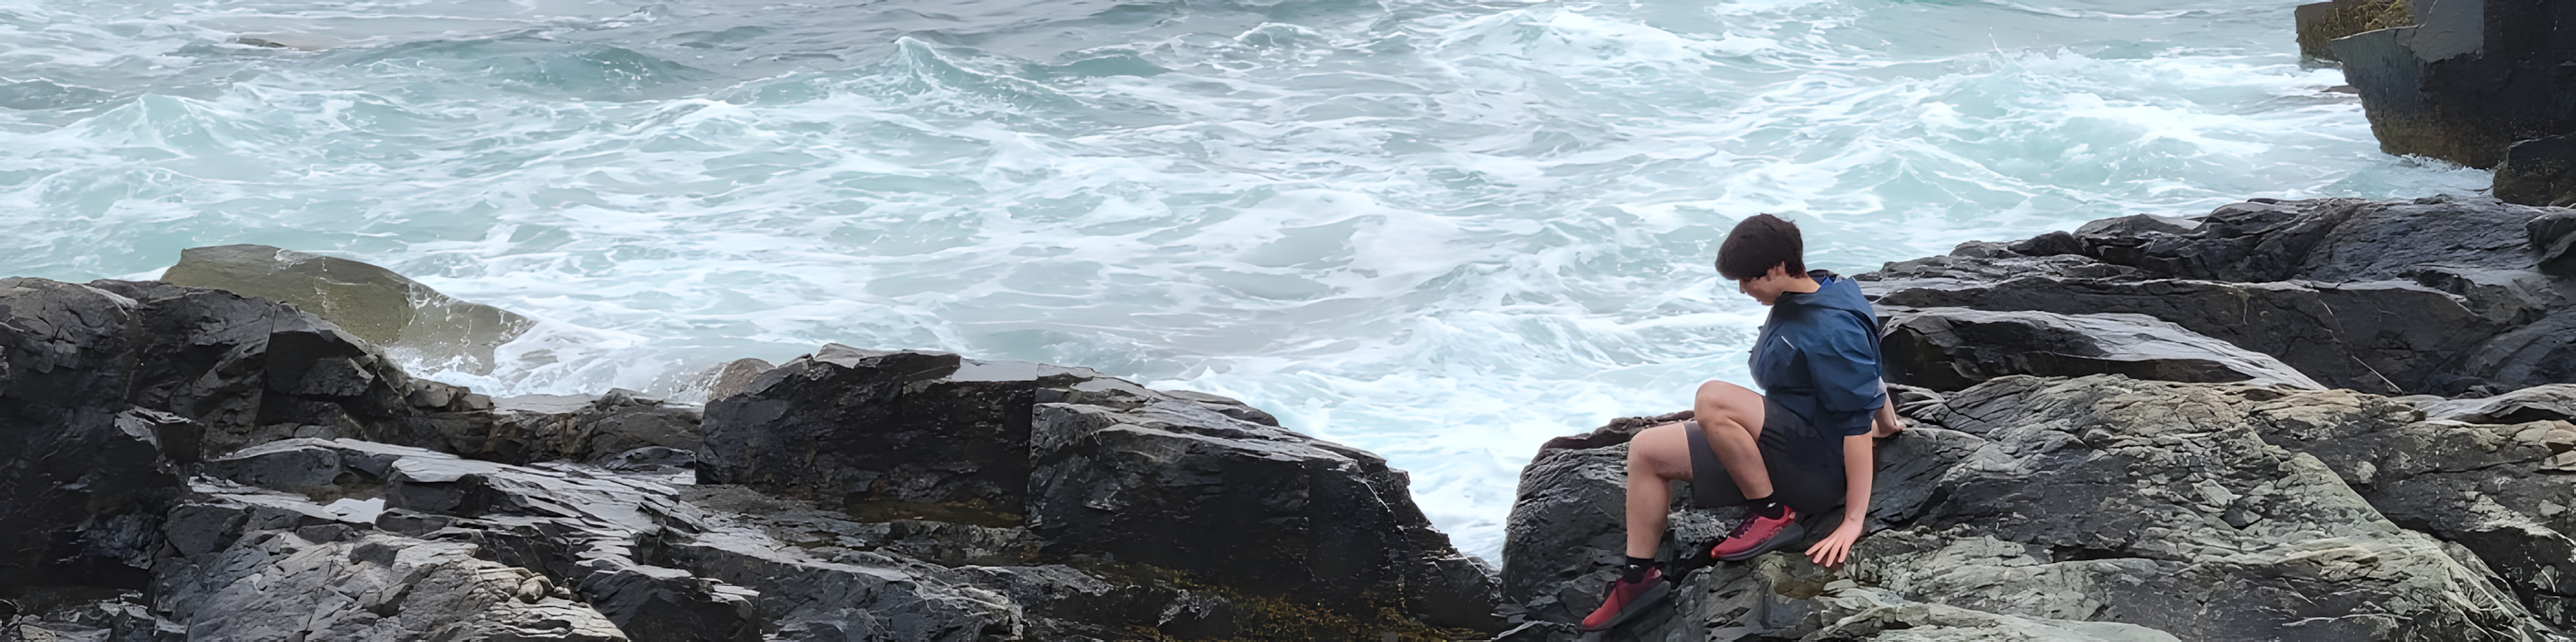
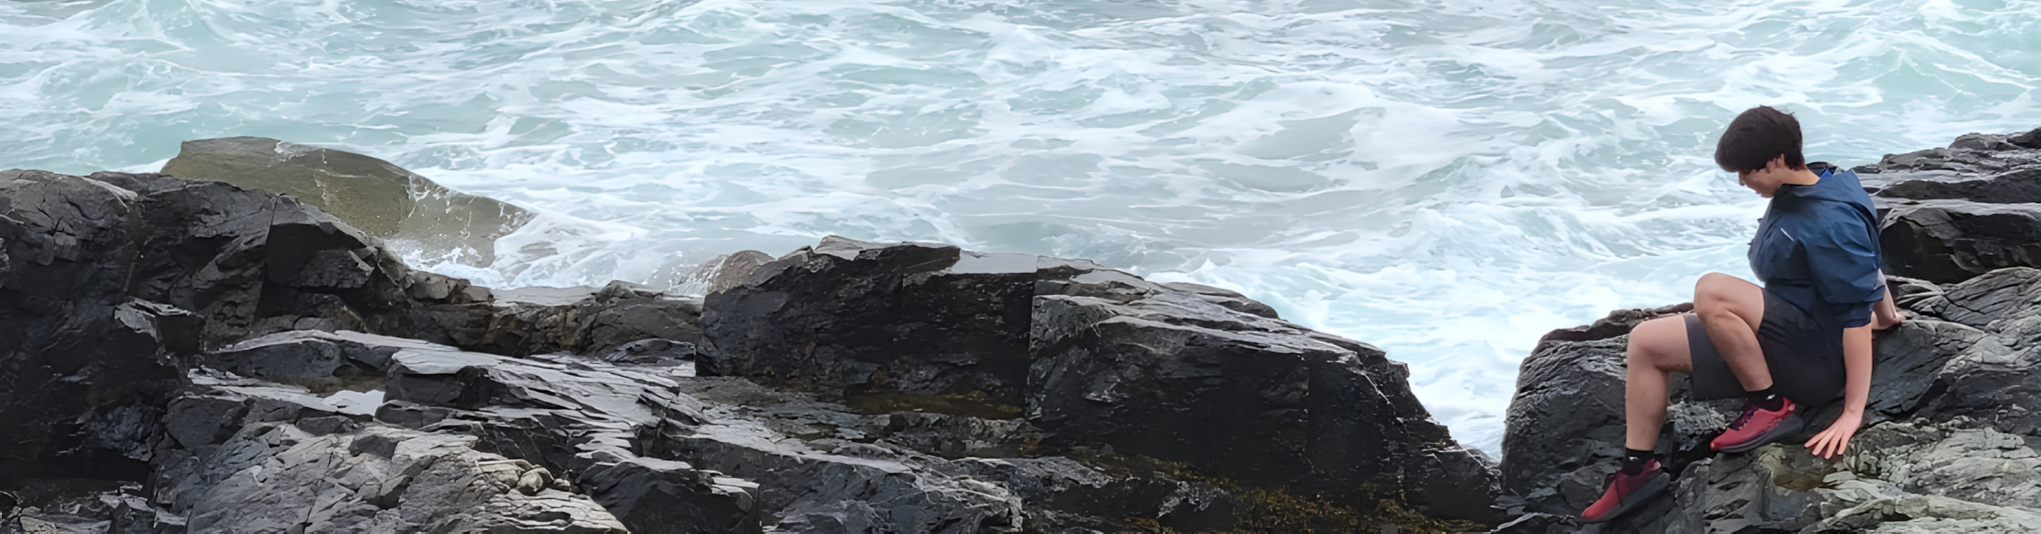
added initial modal for project cards, and cleaned up media folder

diff --git a/scripts.js b/scripts.js
@@ -1,5 +1,5 @@
 // Function to generate a project card with skills as bolded text in a paragraph
-function createProjectCard(title, description, imageUrl, projectLink, skills, projectId, videoUrl) {
+function createProjectCard(title, description, modal_description, imageUrl, projectLink, skills, projectId, videoUrl) {
     // Create the project card container
     const projectCard = document.createElement('a');
     projectCard.href = `#${projectId}`; // Set the link for the project to simulate a subpage
@@ -35,15 +35,39 @@ function createProjectCard(title, description, imageUrl, projectLink, skills, pr
     const projectContainer = document.getElementById('project-container');
     projectContainer.appendChild(projectCard);
 
-    // TODO generate a new webpage for each project card and have them be linked to it
-    // var opened = window.open("projects/uav_ugv_collaboration.html");
-    // opened.document.write("<html><head><title>MyTitle</title></head><body>test</body></html>");
+    // Add click event to open the modal with more details
+    projectCard.addEventListener('click', function(event) {
+        event.preventDefault(); // Prevent default link behavior
 
+        // Fill modal with project details
+        document.getElementById('modal-title').innerText = title;
+        document.getElementById('modal-image').src = imageUrl;
+        document.getElementById('modal-description').innerText = modal_description;
+        document.getElementById('modal-skills').innerText = skills.join(', ');
+        // document.getElementById('modal-link').href = projectLink;
+
+        // Show the modal
+        document.getElementById('project-modal').style.display = 'block';
+    });
 }
+
+// // Close the modal when clicking the close button
+// document.querySelector('.close-btn').addEventListener('click', function() {
+//     document.getElementById('project-modal').style.display = 'none';
+// });
+
+// Close the modal when clicking outside the modal content (on the background)
+document.getElementById('project-modal').addEventListener('click', function(event) {
+    // Check if the click happened on the modal background (not inside the modal content)
+    if (event.target === document.getElementById('project-modal')) {
+        document.getElementById('project-modal').style.display = 'none';
+    }
+});
 
 // Calling the function to add project cards dynamically
 createProjectCard(
     "UAV-UGV Collaboration",
+    "A system that allows a quadcopter to autonomously dock and charge on a UGV reliably; in partnership with Draper Laboratory.",
     "A system that allows a quadcopter to autonomously dock and charge on a UGV reliably; in partnership with Draper Laboratory.",
     "media/projects/UAV_UGV.jpg", 
     "https://github.com/your-github/repo2",
@@ -53,6 +77,8 @@ createProjectCard(
 createProjectCard(
     "3-DOF Robotic Sorting Arm",
     "A 3-DOF robot arm, programmed to pick up and sort colored balls that were placed into its workspace.",
+    `This project was for the class RBE 3001: Unified Robotics III. 
+    The goal of the project was to develop the three degree of freedom robot arm to pick up and sort the balls that were placed on the workspace. To do this, our team had to utilize forward and inverse kinematics, smooth trajectory generation, and computer vision.`,
     "media/projects/color_sorting_robotic_arm.gif", 
     "https://github.com/your-github/repo1",
     ["MATLAB", "Forward/Inverse Kinematics", "Trajectory Generation", "Stereo Calibration"]
@@ -61,6 +87,25 @@ createProjectCard(
 createProjectCard(
     "Escape Room Robots",
     "A set of 3 robots with unique sets of sensors that communicate with each other and find clues to exit an escape room.",
+    `This project was for RBE 2002: Unified Robotics II.
+
+The goal of this project was to develop three robots to communicate with each other and utilize different sensors to navigate an escape room, and have one of the robots escape through a trap door. 
+
+Robot 1 (Camera Bot) moves down the column of the field, wall following, until it reaches the last row, where it turns left to move up the ramp. Using a complementary filter with the robot's IMU, the bot detects when the robot moves far enough on the ramp when the ramp levels out. It then waits for Robot 2 to hit the button and reveal the apriltag at the top of the ramp. Robot 1 then scans the apriltag and sends the ID and orientation of the apriltag to MQTT, where Robot 3 can retrieve the information.
+
+Robot 2 (Button Bot) moves down the first row and follows the left wall until it detects an IR Signal that is on the button using the IR sensor mounted to the front of the robot. Once it sees the IR Signal, the robot aligns itself with the signal--and therefore the button, and presses the button, using the complementary filter with the IMU to detect when the robot has collided with the button. The triggered button then reveals the apriltag for Robot 1.
+
+ Robot 2 also keeps track of which cell the button is in and which face of the cell the button is on and sends that information over MQTT because Robot 3 needs it to unlock the escape door.
+
+Robot 3 (Escape Bot) starts when it retrieves the ID and orientation of the apriltag and the location of the button from MQTT.
+
+The ID of the apriltag determines which cell the escape door is in. For example an ID of 42 would be row 4 column 2.
+
+The orientation of the apriltag determines which face of the cell the escape door is on. For example if the apriltag is not rotated the escape door would be on the north side, and if the apriltag was rotated 90 degrees, the escape door would be on the east side.
+
+The XY location and cell face of the button determines the 3-digit passcode that needs to be sent to the door to open it. The door has an IR receiver and the robot has a circuit we designed with an IR emitter to send the correct passcode using the IR NEC Protocol.
+
+Once the door is detected to have opened using an ultrasonic sensor mounted to the front of the robot, it drives through.`,
     "media/projects/escape_room_robots.gif", 
     "https://github.com/your-github/repo2",
     ["C++", "Sensor Integration", "IMU", "PID Control", "MQTT", "OpenMV"]
@@ -68,6 +113,7 @@ createProjectCard(
 
 createProjectCard(
     "Solar Panel Pick and Place Robot",
+    "Designed and 3D printed a four-bar mechanism on a robot that would pick up \"solar panels\" and place them on the tops of miniature roofs",
     "Designed and 3D printed a four-bar mechanism on a robot that would pick up \"solar panels\" and place them on the tops of miniature roofs",
     "media/projects/solar_panel_robot.gif", 
     "https://github.com/your-github/repo2",
@@ -77,6 +123,7 @@ createProjectCard(
 createProjectCard(
     "Hospital Kiosk Application",
     "Led a team of 11 students to design a kiosk application for workers at Brigham and Women\’s Hospital in Boston",
+    "Led a team of 11 students to design a kiosk application for workers at Brigham and Women\’s Hospital in Boston",
     "media/projects/brigham_and_womens_hospital.jpeg",
     "https://github.com/your-github/repo2",
     ["Java", "Agile", "Scrum", "Jira", "UML", "Git", "SQL"]
@@ -84,6 +131,7 @@ createProjectCard(
 
 createProjectCard(
     "Custom Built 3D Printer",
+    "A Voron 2.4 FDM 3D printer, built using individually sourced components from professional suppliers",
     "A Voron 2.4 FDM 3D printer, built using individually sourced components from professional suppliers",
     "media/projects/3D_printer.jpg",
     "https://github.com/your-github/repo2",

diff --git a/styles.css b/styles.css
@@ -32,7 +32,7 @@ body {
 /* Header container with space between title and navbar */
 .header-container {
 
-    background-image: url("./media/banner_shortened._slightlyPNG.PNG");
+    background-image: url("./media/banner.png");
     background-repeat: repeat-y;
     background-size: cover;
     height: 450px;
@@ -219,4 +219,59 @@ footer {
 
 footer p {
     font-size: 1.1em;
+}
+
+/* Modal Styles */
+.modal {
+    display: none; /* Hide the modal by default */
+    position: fixed;
+    z-index: 1; /* Sit on top of other content */
+    left: 0;
+    top: 0;
+    width: 100%;
+    height: 100%;
+    background-color: rgba(0, 0, 0, 0.5);
+    display: flex; /* Set the modal content as a flex container */
+    flex-direction: column; /* Stack the content (title, image, description, etc.) */
+    align-items: center; /* Center the items horizontally inside the modal */
+}
+
+.modal-content {
+    background-color: #fff;
+    margin: 5% auto;
+    padding: 20px;
+    width: 50%;
+    max-width: 60%;
+    border-radius: 10px;
+    position: relative; /* Ensure it doesn't overlap close button */
+    display: flex; /* Set the modal content as a flex container */
+    flex-direction: column; /* Stack the content (title, image, description, etc.) */
+    align-items: center; /* Center the items horizontally inside the modal */
+}
+
+#modal-image {
+    width: 100%;        /* Take up full width of modal content */
+    max-width: 500px;   /* Maximum width for the image */
+    height: auto;       /* Maintain aspect ratio */
+    object-fit: contain; /* Ensures the image is contained without stretching */
+    margin-bottom: 20px; /* Space below the image */
+    display: block;     /* Make sure it's treated as a block-level element */
+    margin-left: auto;  /* Center horizontally */
+    margin-right: auto; /* Center horizontally */
+}
+
+.close-btn {
+    color: #e9e8e8;
+    font-size: 50px;
+    font-weight: bold;
+    position: absolute;
+    top: 0px;
+    right: 30px;
+}
+
+.close-btn:hover,
+.close-btn:focus {
+    color: black;
+    text-decoration: none;
+    cursor: pointer;
 }

diff --git a/index.html b/index.html
@@ -55,6 +55,18 @@
         </div>
     </section>
 
+    <!-- Modal for Detailed Project Information -->
+    <div id="project-modal" class="modal">
+        <div class="modal-content">
+            <!-- <span class="close-btn">&times;</span> -->
+            <h2 id="modal-title"></h2>
+            <img id="modal-image" src="" alt="Project Image">
+            <p id="modal-description" style="margin-bottom: 10px;"></p>
+            <p style="margin-bottom: 10px;"><strong>Skills:</strong> <span id="modal-skills"></span></p>
+            <!-- <a id="modal-link" href="" target="_blank">View on GitHub</a> -->
+        </div>
+    </div>
+
     <div id="footer"></div>
 
     <script src="scripts.js"></script>
